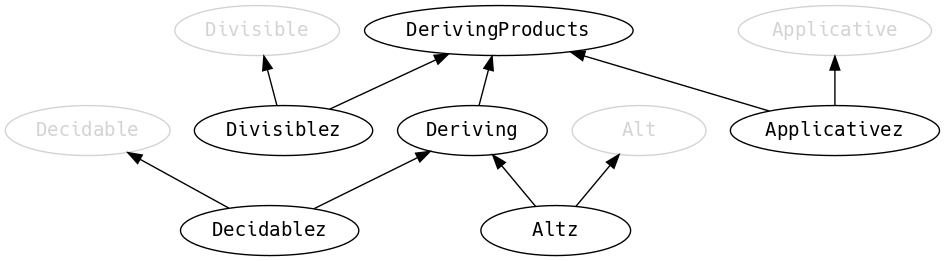
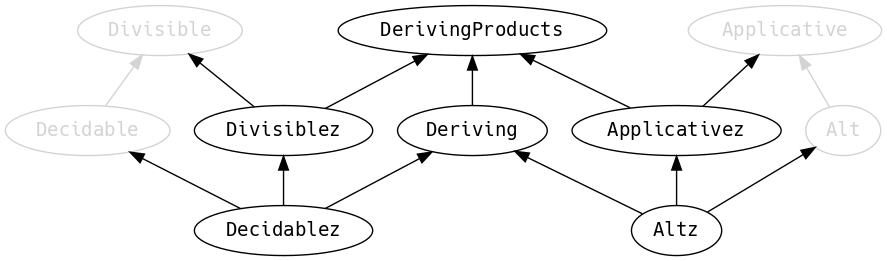
editing pass of scalaz-deriving chapter

diff --git a/manuscript/wip.md b/manuscript/wip.md
@@ -94,15 +94,15 @@ project's `build.sbt` with
   libraryDependencies += "com.fommil" %% "scalaz-deriving" % "1.0.0-RC1"
 ~~~~~~~~
 
-providing new typeclasses: `Decidable`, `Alt` with invariant parents. Shown
-below in relation to the typeclasses that are relevant to this chapter:
+providing new typeclasses, shown below in relation to the core scalaz
+typeclasses that are relevant to this chapter:
 
 {width=60%}
 ![](images/scalaz-deriving-base.png)
 
 A> In scalaz 7.3, `Applicative` and `Divisible` will inherit from `InvariantApplicative`
 
-A summary of the scalaz core typeclasses is:
+Before we proceed, here is a quick recap of the core scalaz typeclasses:
 
 {lang="text"}
 ~~~~~~~~
@@ -264,11 +264,11 @@ A> ~~~~~~~~
 
 ### `MonadError`
 
-Typically things that *write* a polymorphic value have a `Contravariant`, and
-things that *read* a polymorphic value have a `Functor`. However, it is very
-much expected that reading a value can fail. For example, if we have a default
-`String` it does not mean that we can simply derive a default `String Refined
-NonEmpty`
+Typically things that *write* out a polymorphic value have a `Contravariant`,
+and things that *read* into a polymorphic value have a `Functor`. However, it is
+very much expected that reading a value can fail. For example, if we have a
+default `String` it does not mean that we can simply derive a default `String
+Refined NonEmpty` from it
 
 {lang="text"}
 ~~~~~~~~
@@ -299,7 +299,7 @@ provide a `MonadError[Default, String]`:
 
 {lang="text"}
 ~~~~~~~~
-  implicit val monaderr = new MonadError[Default, String] {
+  implicit val monad = new MonadError[Default, String] {
     def point[A](a: =>A): Default[A] =
       instance(a.right)
     def bind[A, B](fa: Default[A])(f: A => Default[B]): Default[B] =
@@ -330,6 +330,9 @@ In fact, we can provide a derivation rule for all refined types
 
 where `Validate` is from the refined library and is required by `refineV`.
 
+That said, we probably want to provide a custom instance of `Default[String
+Refined NonEmpty]` that succeeds if it is something we need.
+
 A> The `refined-scalaz` extension to `refined` provides support for automatically
 A> deriving all typeclasses for refined types with the following import
 A> 
@@ -358,7 +361,8 @@ protection around the non-total `.toInt` stdlib method.
 
 ### `.fromIso`
 
-All of the typeclasses in scalaz have a method on their companion with a signature similar to the following:
+All of the typeclasses in scalaz have a method on their companion with a
+signature similar to the following:
 
 {lang="text"}
 ~~~~~~~~
@@ -373,9 +377,8 @@ All of the typeclasses in scalaz have a method on their companion with a signatu
   }
 ~~~~~~~~
 
-These mean that if we have a type `F`, and a way to convert it into a `G`, that
-has the typeclass we care about, then we can simply call `Equal.fromIso` to
-obtain an instance.
+These mean that if we have a type `F`, and a way to convert it into a `G` that
+has an instance, we can call `Equal.fromIso` to obtain an instance for `F`.
 
 For example, as typeclass users, if we have a data type `Bar` we can define an
 isomorphism to `(String, Int)`
@@ -401,8 +404,9 @@ and then derive `Equal[Bar]` because there is already a `Equal` for all tuples:
 ~~~~~~~~
 
 The `.fromIso` mechanism can also assist us as typeclass authors. Consider
-`Default` which has a core type signature of the form `Unit => F[A]`. This is
-just `Kleisli[F, Unit, ?]`, the `ReaderT` monad transformer.
+`Default` which has a core type signature of the form `Unit => F[A]`. Our
+`default` method is in fact isomorphic to `Kleisli[F, Unit, A]`, the `ReaderT`
+monad transformer.
 
 Since `Kleisli` already provides a `MonadError` (if `F` has one), we can derive
 `MonadError[Default, String]` by creating an isomorphism between `Default` and
@@ -545,8 +549,14 @@ On the other hand, a similar `JsDecoder` test meets the `Applicative` compositio
 
 {lang="text"}
 ~~~~~~~~
+  final case class Comp(a: String, b: Int)
+  object Comp {
+    implicit val equal: Equal[Comp] = ...
+    implicit val decoder: JsDecoder[Comp] = ...
+  }
+  
   def composeTest(j: JsValue) = {
-    val A: Applicative[JsDecoder] = JsDecoder.monad // from MonadError.fromIso
+    val A: Applicative[JsDecoder] = Applicative[JsDecoder]
     val fa: JsDecoder[Comp] = JsDecoder[Comp]
     val fab: JsDecoder[Comp => (String, Int)] = A.point(c => (c.a, c.b))
     val fbc: JsDecoder[((String, Int)) => (Int, String)] = A.point(_.swap)
@@ -630,8 +640,8 @@ The four core typeclasses have symmetric signatures:
 | `Divisible`   | `divide2` | `F[A1], F[A2]` | `Z => (A1, A2)`   | `F[Z]`  |
 | `Decidable`   | `choose2` | `F[A1], F[A2]` | `Z => (A1 \/ A2)` | `F[Z]`  |
 
-covering covariant products, covariant coproducts, contravariant products and
-contravariant coproducts, respectively.
+supporting covariant products; covariant coproducts; contravariant products;
+contravariant coproducts.
 
 We can write a `Decidable[Equal]`, letting us derive `Equal` for any ADT!
 
@@ -666,13 +676,11 @@ where the products (`Vader` and `Maul`) have an `Equal`
 ~~~~~~~~
   object Vader {
     private val g: Vader => (String, Int) = d => (d.s, d.i)
-    implicit val equal: Equal[Vader] =
-      Divisible[Equal].divide2(Equal[String], Equal[Int])(g)
+    implicit val equal: Equal[Vader] = Divisible[Equal].divide2(Equal[String], Equal[Int])(g)
   }
   object Maul {
     private val g: Maul => (Int, String) = d => (d.i, d.s)
-    implicit val equal: Equal[Maul] =
-      Divisible[Equal].divide2(Equal[Int], Equal[String])(g)
+    implicit val equal: Equal[Maul] = Divisible[Equal].divide2(Equal[Int], Equal[String])(g)
   }
 ~~~~~~~~
 
@@ -685,8 +693,7 @@ we can derive the equal for the whole ADT
       case p @ Vader(_, _) => -\/(p)
       case p @ Maul(_, _)  => \/-(p)
     }
-    implicit val equal: Equal[Darth] =
-      Decidable[Equal].choose2(Equal[Vader], Equal[Maul])(g)
+    implicit val equal: Equal[Darth] = Decidable[Equal].choose2(Equal[Vader], Equal[Maul])(g)
   }
   
   scala> Vader("hello").widen === Maul(1).widen
@@ -735,27 +742,25 @@ Letting us derive our `Default[Darth]`
   object Darth {
     ...
     private def f(e: Vader \/ Maul): Darth = e.merge
-    implicit val default: Default[Darth] =
-      Alt[Default].altly2(Default[Vader], Default[Maul])(f)
+    implicit val default: Default[Darth] = Alt[Default].altly2(Default[Vader], Default[Maul])(f)
   }
   object Vader {
     ...
     private val f: (String, Int) => Vader = Vader(_, _)
-    implicit val default: Default[Vader] =
-      Alt[Default].apply2(Default[String], Default[Int])(f)
+    implicit val default: Default[Vader] = Alt[Default].apply2(Default[String], Default[Int])(f)
   }
   object Maul {
     ...
     private val f: (Int, String) => Maul = Maul(_, _)
-    implicit val default: Default[Maul] =
-      Alt[Default].apply2(Default[Int], Default[String])(f)
+    implicit val default: Default[Maul] = Alt[Default].apply2(Default[Int], Default[String])(f)
   }
   
   scala> Default[Darth].default
   \/-(Vader())
 ~~~~~~~~
 
-Finally, the common parents of `Alt` and `Decidable`:
+Returning to the `scalaz-deriving` typeclasses, the invariant parents of `Alt`
+and `Decidable`:
 
 {lang="text"}
 ~~~~~~~~
@@ -775,7 +780,7 @@ Finally, the common parents of `Alt` and `Decidable`:
   }
 ~~~~~~~~
 
-means that we can instead write consistent boilerplate for all derivations
+mean that we can instead write consistent boilerplate for all derivations
 
 {lang="text"}
 ~~~~~~~~
@@ -811,8 +816,8 @@ only provide an `InvariantApplicative`, not an `Applicative` or even an
 
 There are two problems with `InvariantApplicative` and `InvariantAlt`:
 
-1.  they only support products of four fields and coproducts of four entries
-2.  there is a **lot** of boilerplate at the use site
+1.  they only support products of four fields and coproducts of four entries.
+2.  there is a **lot** of boilerplate on the data type companions.
 
 In this final section about `scalaz-deriving` we will solve both problems.
 
@@ -851,7 +856,7 @@ which can be instantiated:
   val maul: Prod[MaulT]  = Prod(1, "hello")
   
   val VaderI = Cop.Inject[Vader, Cop[DarthT]]
-  val tweedle: Cop[DarthT] = VaderI.inj(Vader("hello", 1))
+  val darth: Cop[DarthT] = VaderI.inj(Vader("hello", 1))
 ~~~~~~~~
 
 To be able to use the `scalaz-deriving` API, we need an `Isomorphism` between
@@ -916,10 +921,10 @@ With that out of the way we can call the `Deriving` API for `Equal`
       iso.labels, iso.name)(iso.to, iso.from)
   }
   object Vader {
+    ...
     implicit val equal: Equal[Vader] = Deriving[Equal].xproductz(
       Prod(Need(Equal[String]), Need(Equal[Int])),
       iso.labels, iso.name)(iso.to, iso.from)
-    ...
   }
   object Maul {
     ...
@@ -945,8 +950,32 @@ Luckily it's just a case of wrapping our existing `Alt` with a helper
   }
 ~~~~~~~~
 
-We could repeat the same boilerplate for `Default`. We have solved the problem
-of arbitrary arity, but we introduced even more boilerplate.
+and then calling it from the companions
+
+{lang="text"}
+~~~~~~~~
+  object Darth {
+    ...
+    implicit val default: Default[Darth] = Deriving[Default].xcoproductz(
+      Prod(Need(Default[Vader]), Need(Default[Maul])),
+      iso.labels, iso.name)(iso.to, iso.from)
+  }
+  object Vader {
+    ...
+    implicit val default: Default[Vader] = Deriving[Default].xproductz(
+      Prod(Need(Default[String]), Need(Default[Int])),
+      iso.labels, iso.name)(iso.to, iso.from)
+  }
+  object Maul {
+    ...
+    implicit val default: Default[Maul] = Deriving[Default].xproductz(
+      Prod(Need(Default[Int]), Need(Default[String])),
+      iso.labels, iso.name)(iso.to, iso.from)
+  }
+~~~~~~~~
+
+We have solved the problem of arbitrary arity, but we have introduced even more
+boilerplate.
 
 The punchline is that the `@deriving` annotation, which comes from
 `deriving-plugin`, generates all the boilerplate automatically and only needs to
@@ -964,14 +993,15 @@ to:
 Also included in `scalaz-deriving` are instances for `Order`, `Show`,
 `Semigroup`, `Monoid` and `Arbitrary`.
 
+You're welcome.
+
 
 ### Examples
 
-We will finish our study of `scalaz-deriving` with fully worked implementations
-for all the example typeclasses. Before we do that we need to know about a new
-data types: `/~\` (the "snake in the road") aliased to `APair`. This is useful
-for containing two higher kinded structures that are both tied to the same
-parameter:
+We finish our study of `scalaz-deriving` with fully worked implementations for
+all the example typeclasses. Before we do that we need to know about a new data
+types: `/~\` (the "snake in the road") aliased to `APair`. This is useful for
+containing two higher kinded structures that are both tied to the same type:
 
 {lang="text"}
 ~~~~~~~~
@@ -991,10 +1021,10 @@ We typically use this in the context of `Id /~\ TC` where `TC` is our typeclass,
 meaning that we have a value, and an instance of a typeclass for that value,
 without knowing anything about the value.
 
-Finally, all the methods have implicit evidence of the form `NameF ƒ A ↦ TC`,
-allowing the `iotaz` library to be able to perform `.zip`, `.traverse`, and
-other operations on `Prod` and `Cop`. We can ignore these parameters, as we
-don't use them directly.
+In addition, all the methods on the `Deriving` API have implicit evidence of the
+form `NameF ƒ A ↦ TC`, allowing the `iotaz` library to be able to perform
+`.zip`, `.traverse`, and other operations on `Prod` and `Cop`. We can ignore
+these parameters, as we don't use them directly.
 
 
 #### `Equal`
@@ -1023,8 +1053,7 @@ optimisations:
       implicit ev: NameF ƒ A ↦ TC
     ): Equal[Z] = (z1, z2) =>
       (g(z1), g(z2)).zip(tcs).foldRight(true) {
-        case ((a1, a2) /~\ fa, acc) =>
-          (quick(a1, a2) || fa.value.equal(a1, a2)) && acc
+        case ((a1, a2) /~\ fa, acc) => (quick(a1, a2) || fa.value.equal(a1, a2)) && acc
       }
   
     def choosez[Z, A <: TList, TC <: TList](
@@ -1112,18 +1141,18 @@ both covariant and contravariant position so we must make use of both `f` and
 
 #### `JsEncoder`
 
-We have already noted that an `Divisible[JsEncoder]` is not possible, but we can
-implement `Deriving` directly, which has no laws, and also provides access to
-field names.
+We have already noted that a lawful `Divisible[JsEncoder]` is not possible, but
+we can implement `Deriving` directly, which has no laws, and also provides
+access to field names.
 
 We have some choices to make with regards to JSON serialisation:
 
-1.  Should we include `null` values? We choose to not include fields if the value
-    is a `JsNull`.
-2.  How do we encode the name of a coproduct? We choose to use a special field
-    name `type` to hold the name.
-3.  How do we deal with coproducts that are not `JsObject`? We choose to put such
-    values into a special field named `xvalue`.
+1.  Should we include `null` values? We do not include fields if the value is a
+    `JsNull`.
+2.  How do we encode the name of a coproduct? We use a special field `"type"` to
+    disambiguate coproducts.
+3.  How do we deal with coproducts that are not `JsObject`? We put such values
+    into a special field `"xvalue"`.
 
 A> If the default derivation is not palatable to a user of the API, that user can
 A> provide a custom instance on the companion of their data type. More complicated
